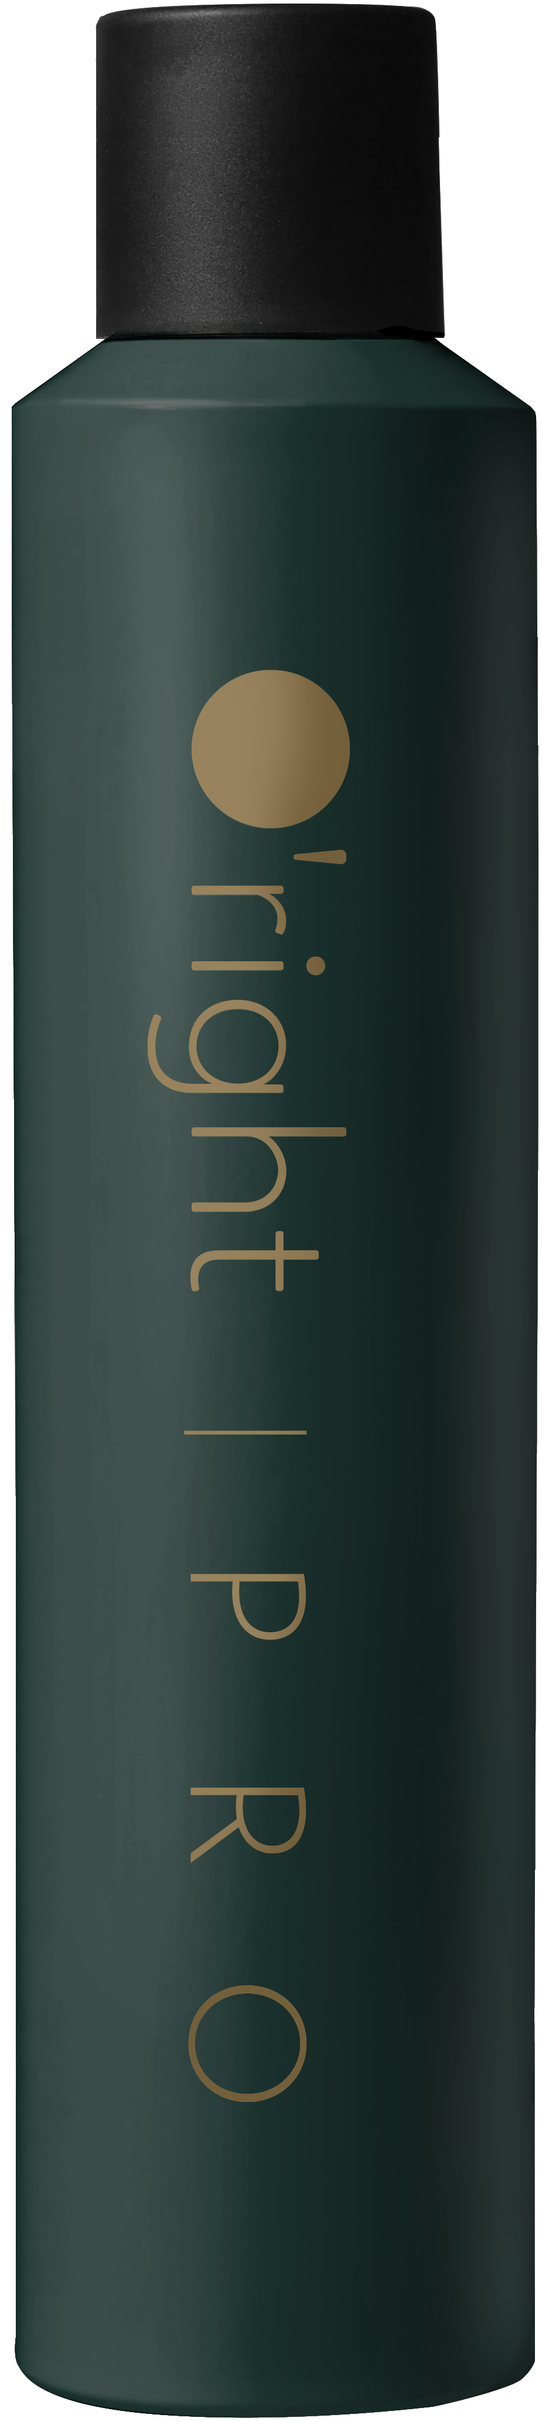
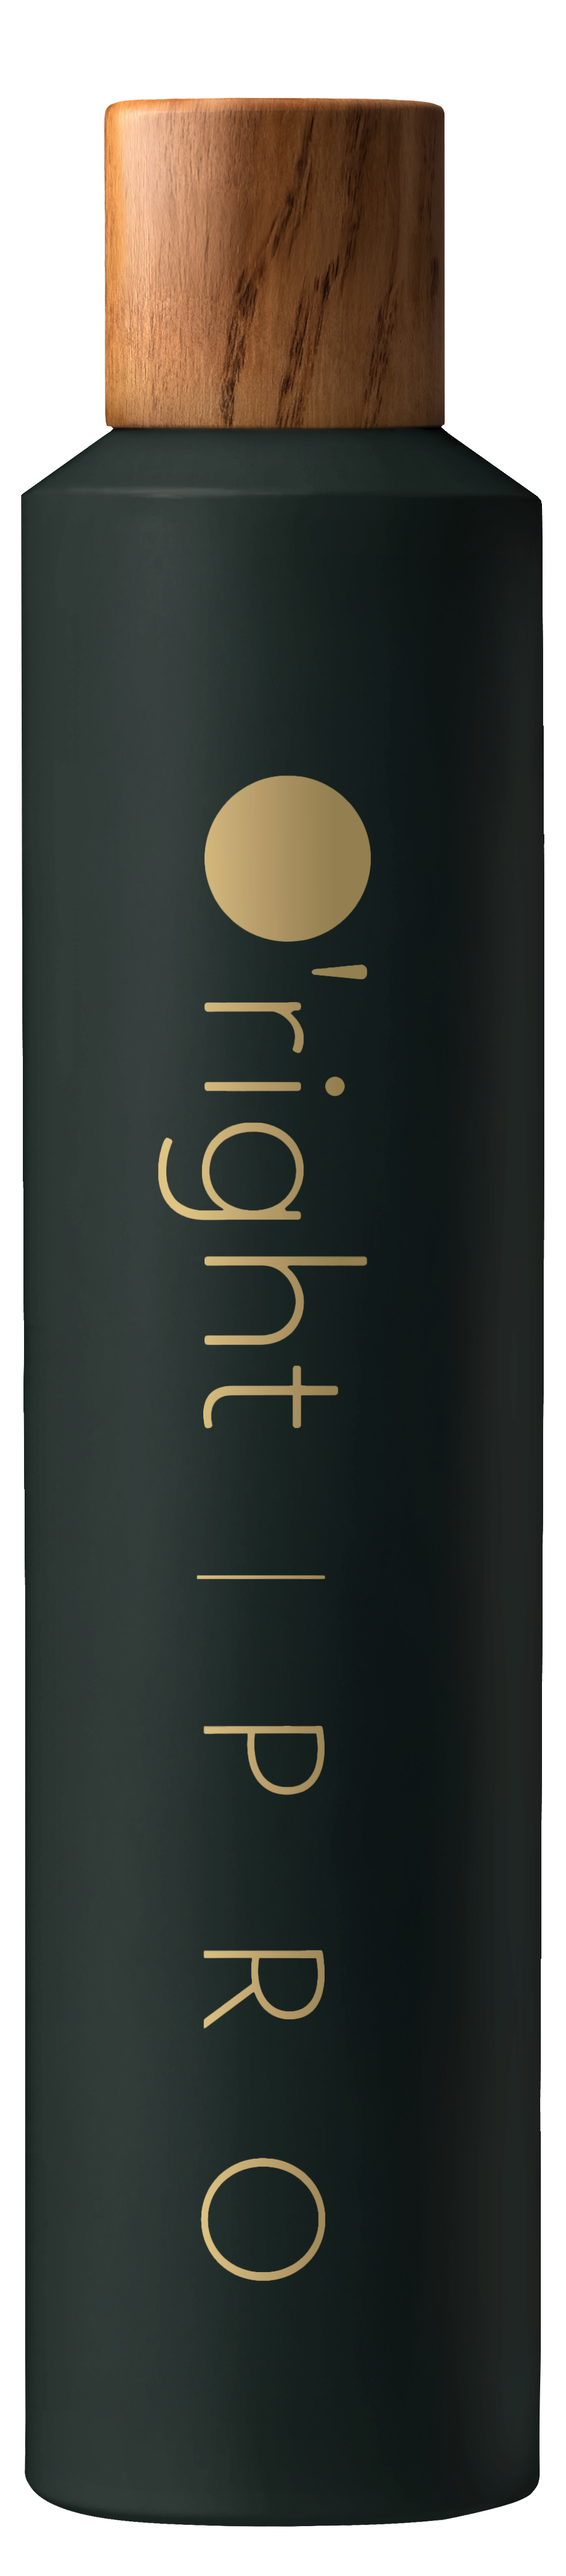
fix: BioAir強力造型噴霧產品圖更新為木蓋版
- 實際外觀與 BioAir髮根支撐豐盈感噴霧同款（木頭蓋），舊圖為黑色塑膠蓋版
- 沿用髮根支撐的留白版圖；?v= 版本號更新、瀏覽器快取自動失效

Changed region(s): [[0.0, 0.0, 0.9989, 1.0]]

diff --git a/Coding/index.html b/Coding/index.html
@@ -7,10 +7,10 @@
 <!-- 匯出用函式庫（html2canvas / jsPDF）改為匯出時才載入，加快初始載入：見 ensureExportLibs() -->
 <!-- 商品清單與產品文案（由 tools/build-copy.mjs 從 產品圖片/ 與 產品文案 CSV 自動產生） -->
 <!-- ?v= 版本號由 build-copy.mjs／build-names.mjs 於重建時自動更新，避免瀏覽器載到舊快取 -->
-<script src="products.js?v=1787727384102"></script>
-<script src="product-copy.js?v=1787727384102"></script>
-<script src="i18n.js?v=1787727384102"></script>
-<script src="names-en.js?v=1787727384102"></script>
+<script src="products.js?v=1787736750113"></script>
+<script src="product-copy.js?v=1787736750113"></script>
+<script src="i18n.js?v=1787736750113"></script>
+<script src="names-en.js?v=1787736750113"></script>
 <style>
 /* ── Reset ── */
 *, *::before, *::after { box-sizing: border-box; margin: 0; padding: 0; }

diff --git a/Coding/products.js b/Coding/products.js
@@ -378,7 +378,7 @@ window.PRODUCTS = [
     "series": "PRO",
     "copyKey": "BioAir強力造型噴霧",
     "orig": "",
-    "img": "../產品圖片/PRO系列/BioAir強力造型噴霧350mL.png?v=1781494155690"
+    "img": "../產品圖片/PRO系列/BioAir強力造型噴霧350mL.png?v=1787736749507"
   },
   {
     "id": "BioAir髮根支撐豐盈感噴霧350mL",
